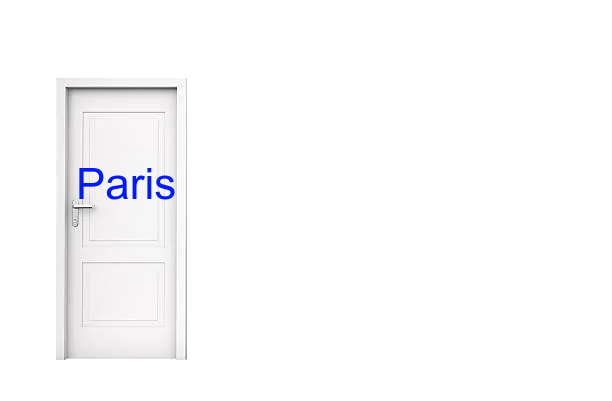
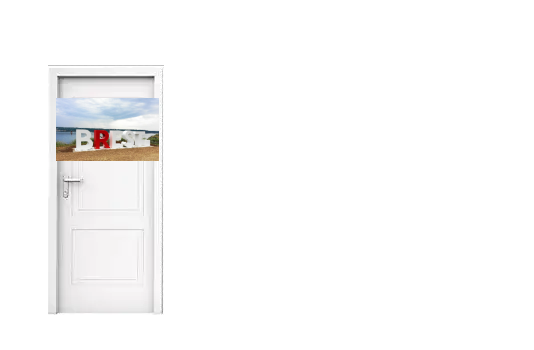
[+] more page of game [+]new texture

Changed region(s): [[0.0899, 0.2571, 0.2996, 0.5143]]

diff --git a/client/game.html b/client/game.html
@@ -26,6 +26,9 @@
             "Quel est le monument emblématique de Paris qui attire des millions de visiteurs chaque année ?",
             "(15 - 6) × (4 ÷ 2) + 3 = ?",
             "Quelle est l'estimation actuelle du nombre de personnes dans le monde ?",
+            "Combien de défaites Conor McGregor présente ?",
+            "(10 x 2) + (11 x 2) = ?",
+            "Quelle est la capitale du Portugal ?",
             "Bravo tu as gagné !"
         ];
 
@@ -35,7 +38,7 @@
 
         function chooseCorrectDoor() {
             if (level === 1) {
-                return 1;
+                return 3;
             } 
             if (level === 2) {
                 return 3;
@@ -51,6 +54,13 @@
             }
             if (level === 6) {
                 return 3;
+            } if (level === 7) {
+                return 2;
+            }if (level === 8) {
+                return 2;
+            } 
+            if (level === 9) {
+                return 1;
             } else {
                 window.location.href = "index.html";
             }
@@ -70,7 +80,7 @@
                 level += 1;
                 questionIndex += 1;
                 updateLevelAndQuestion();
-                if (level == 7) {
+                if (level == 10) {
                     window.location.href = "win.html";
                 }
             } else {
